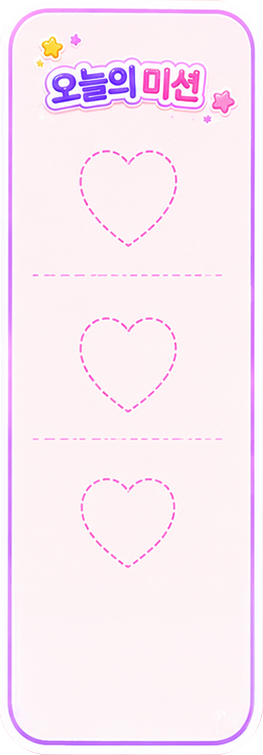
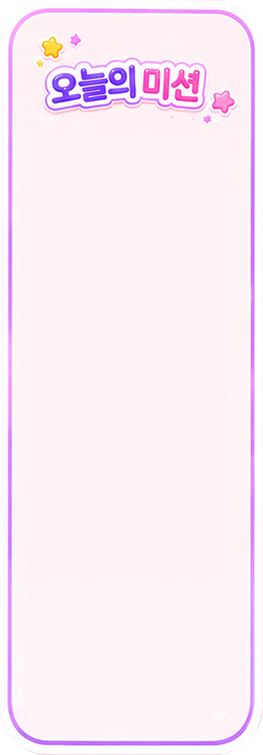
Update
update ui

diff --git a/src/main.jsx b/src/main.jsx
@@ -56,7 +56,7 @@ const steps = [
       { side: 'left', text: ['네 목소리를 들으면', '힘이 날 것 같아!'], left: 96, top: 257 },
       { side: 'right', text: ['목소리를', '들려줄래?'], left: 704, top: 369 },
     ],
-    cta: { label: '응, 들려줄게!', left: 508, top: 822, width: 350 },
+    cta: { label: '응, 들려줄게!', left: 508, top: 822, width: 350, extraClass: 'cta-next' },
   },
   {
     id: 3,
@@ -76,15 +76,20 @@ const steps = [
     showPanel: true,
     panelMode: 'highlightStart',
     startButton: true,
+    showEmptyHearts: true,
   },
   {
     id: 5,
     tone: 'bright',
     character: 'happy',
-    bubbles: [{ side: 'left', text: ['내가 먼저 말할게.', '따라해봐!'], left: 96, top: 257 }],
+    bubbles: [
+      { side: 'left', text: ['내가 먼저 말할게.', '따라해봐!'], left: 96, top: 257 },
+      { side: 'right', text: ['빨간 사과'], left: 704, top: 369, fontSize: 44, color: '#ef4444' },
+    ],
     showPanel: true,
     missionCard: true,
     speakButton: true,
+    showEmptyHearts: true,
   },
   {
     id: 6,
@@ -93,6 +98,7 @@ const steps = [
     bubbles: [{ side: 'left', text: ['좋아, 듣고 있어.', '천천히 말해줘!'], left: 96, top: 248 }],
     showPanel: true,
     listening: true,
+    showEmptyHearts: true,
   },
   {
     id: 7,
@@ -104,7 +110,7 @@ const steps = [
     ],
     showPanel: true,
     hearts: 1,
-    cta: { label: '다음', left: 565, top: 826, width: 236 },
+    cta: { label: '다음', left: 350, top: 800, width: 320, extraClass: 'cta-next' },
   },
   {
     id: 8,
@@ -131,7 +137,7 @@ const steps = [
     tone: 'bright',
     character: 'happy',
     bubbles: [
-      { side: 'left', text: ['에너지가 차면', '새 친구가 올지도 몰라!'], left: 96, top: 245 },
+      { side: 'left', text: ['에너지가 차면', '새 친구가 올지도 몰라!'], left: 96, top: 245, paddingLeft: 28 },
       { side: 'right', text: ['어떤 친구가 올지', '기대되지 않아?'], left: 704, top: 369 },
     ],
     showPanel: true,
@@ -241,7 +247,9 @@ function RoomDecor({ tone }) {
 
 function OnboardingBubble({ bubble, index }) {
   const asset = bubble.side === 'left' ? bubbleLeft : bubbleRight;
-  const textClass = bubble.side === 'left' ? 'left-[42px] top-[31px]' : 'left-[42px] top-[33px]';
+  const textClass = bubble.textCenter
+    ? 'left-0 right-0 top-[31px] text-center px-[32px]'
+    : bubble.side === 'left' ? `left-[${bubble.paddingLeft ?? 42}px] top-[31px]` : `left-[${bubble.paddingLeft ?? 42}px] top-[33px]`;
 
   return (
     <div
@@ -249,7 +257,13 @@ function OnboardingBubble({ bubble, index }) {
       style={{ left: bubble.left, top: bubble.top }}
     >
       <Asset src={asset} alt={`${bubble.side === 'left' ? '왼쪽' : '오른쪽'} 말풍선`} style={{ left: 0, top: 0, width: 273, height: 153 }} />
-      <p className={`absolute ${textClass} whitespace-pre-line text-[25px] font-black leading-tight text-violet-700 drop-shadow-[0_2px_0_rgba(255,255,255,0.85)]`}>
+      <p
+        className={`absolute ${textClass} whitespace-pre-line text-[25px] font-black leading-tight text-violet-700 drop-shadow-[0_2px_0_rgba(255,255,255,0.85)]`}
+        style={{
+          ...(bubble.fontSize && { fontSize: `${bubble.fontSize}px` }),
+          ...(bubble.color && { color: bubble.color }),
+        }}
+      >
         {bubble.text.join('\n')}
       </p>
     </div>
@@ -269,12 +283,12 @@ function CharacterArea({ state }) {
   );
 }
 
-function MissionPanel({ mode, hearts = 0, showStart = false, showReplay = false, listening = false, onNext }) {
+function MissionPanel({ mode, hearts = 0, showStart = false, showReplay = false, listening = false, showEmptyHearts = false, onNext }) {
   return (
     <aside className="absolute left-[1035px] top-[146px] z-30 h-[755px] w-[263px] panel-slide">
       <Asset src={panelDailyMission} alt="오늘의 미션 패널" className="ui-shadow panel-breathe" style={{ left: 0, top: 0, width: 263, height: 755 }} />
-      {hearts > 0 && (
-        <div className="absolute left-[79px] top-[142px] grid gap-[71px]">
+      {(hearts > 0 || showEmptyHearts) && (
+        <div className="absolute left-[57px] top-[142px] grid gap-[10px]">
           {[0, 1, 2].map((heart) => (
             <div
               key={heart}
@@ -287,7 +301,7 @@ function MissionPanel({ mode, hearts = 0, showStart = false, showReplay = false,
         </div>
       )}
       {showReplay && (
-        <div className="absolute left-[30px] top-[632px] z-40 grid w-[202px] gap-3">
+        <div className="absolute left-[30px] top-[610px] z-40 grid w-[202px] gap-3">
           <button
             className="secondary-button panel-secondary"
             onClick={(event) => {
@@ -303,19 +317,14 @@ function MissionPanel({ mode, hearts = 0, showStart = false, showReplay = false,
               event.stopPropagation();
             }}
           >
-            다시 하기
+            미션 다시 하기
           </button>
         </div>
       )}
-      {listening && (
-        <div className="absolute left-[30px] top-[604px] z-40 grid h-[56px] w-[202px] place-items-center rounded-[20px] bg-violet-500/70 text-[19px] font-black text-white shadow-soft">
-          말하는 중...
-        </div>
-      )}
-      {mode === 'highlightStart' && <div className="absolute left-[22px] top-[596px] h-[132px] w-[236px] rounded-[36px] ring-8 ring-white/75 highlight-pulse" />}
+      {mode === 'highlightStart' && <div className="absolute left-[16px] top-[596px] h-[132px] w-[236px] rounded-[36px] ring-8 ring-white/75 highlight-pulse" />}
       {showStart && (
         <button
-          className="start-button absolute left-[23px] top-[596px] h-[132px] w-[236px]"
+          className="start-button absolute left-[17px] top-[596px] h-[132px] w-[236px]"
           aria-label="시작하기"
           onClick={(event) => {
             event.stopPropagation();
@@ -358,13 +367,9 @@ function CharacterCollectionButton({ highlight = false }) {
 
 function MissionCard({ onNext }) {
   return (
-    <div className="absolute left-[454px] top-[670px] z-40 flex items-center gap-8 rounded-[34px] border-[6px] border-white bg-white/88 px-9 py-6 shadow-soft mission-card">
-      <div>
-        <p className="text-[20px] font-black text-fuchsia-500">오늘의 말 먹이</p>
-        <p className="text-[38px] font-black text-violet-700">빨간 사과</p>
-      </div>
+    <div className="absolute left-[350px] top-[800px] z-40 mission-card">
       <button
-        className="prototype-button mic-pulse"
+        className="prototype-button cta-next mic-pulse w-[320px]"
         onClick={(event) => {
           event.stopPropagation();
           onNext();
@@ -378,7 +383,7 @@ function MissionCard({ onNext }) {
 
 function ListeningStatus() {
   return (
-    <div className="absolute left-[362px] top-[742px] z-40 flex w-[542px] flex-col items-center gap-5">
+    <div className="absolute left-[320px] top-[742px] z-40 flex w-[542px] flex-col items-center gap-5">
       <div className="listening-wave" aria-hidden="true">
         {Array.from({ length: 17 }).map((_, index) => (
           <span key={index} style={{ animationDelay: `${(index % 6) * 0.08}s` }} />
@@ -392,7 +397,7 @@ function ListeningStatus() {
 function PrototypeCTA({ cta, onNext }) {
   return (
     <button
-      className="prototype-button cta-bounce absolute z-50"
+      className={`prototype-button cta-bounce absolute z-50${cta.extraClass ? ` ${cta.extraClass}` : ''}`}
       style={{ left: cta.left, top: cta.top, width: cta.width }}
       onClick={(event) => {
         event.stopPropagation();
@@ -453,7 +458,7 @@ function OnboardingStep({ step, index, onNext }) {
       {step.bubbles.map((bubble, bubbleIndex) => (
         <OnboardingBubble key={`${step.id}-${bubbleIndex}`} bubble={bubble} index={bubbleIndex} />
       ))}
-      {step.showPanel && <MissionPanel mode={step.panelMode} hearts={step.hearts} showStart={step.startButton} showReplay={step.replayButton} listening={step.listening} onNext={onNext} />}
+      {step.showPanel && <MissionPanel mode={step.panelMode} hearts={step.hearts} showStart={step.startButton} showReplay={step.replayButton} listening={step.listening} showEmptyHearts={step.showEmptyHearts} onNext={onNext} />}
       {step.showProgress && <ProgressBar />}
       {step.collection && <CharacterCollectionButton highlight={step.collectionHighlight} />}
       {step.missionCard && <MissionCard onNext={onNext} />}

diff --git a/src/styles.css b/src/styles.css
@@ -11,9 +11,7 @@ body,
   height: 100%;
   margin: 0;
   overflow: hidden;
-  background:
-    radial-gradient(circle at 50% 45%, rgba(255, 202, 232, 0.35), transparent 45%),
-    #f59cc2;
+  background: #292929;
 }
 
 button {
@@ -136,11 +134,11 @@ button {
 
 .mission-heart {
   display: grid;
-  width: 104px;
-  height: 104px;
+  width: 150px;
+  height: 150px;
   place-items: center;
   color: rgba(239, 92, 198, 0.18);
-  font-size: 96px;
+  font-size: 140px;
   line-height: 1;
   transform: translateY(var(--heart-shift, 0)) rotate(-4deg);
   -webkit-text-stroke: 3px #ee62ca;
@@ -175,6 +173,12 @@ button {
 .prototype-button:hover {
   transform: scale(1.05);
   filter: drop-shadow(0 0 18px rgba(255, 255, 255, 0.78)) drop-shadow(0 0 18px rgba(160, 92, 255, 0.52));
+}
+
+.cta-next {
+  border-width: 2px;
+  padding: 22px 34px;
+  background: #8b46fa;
 }
 
 .secondary-button {
